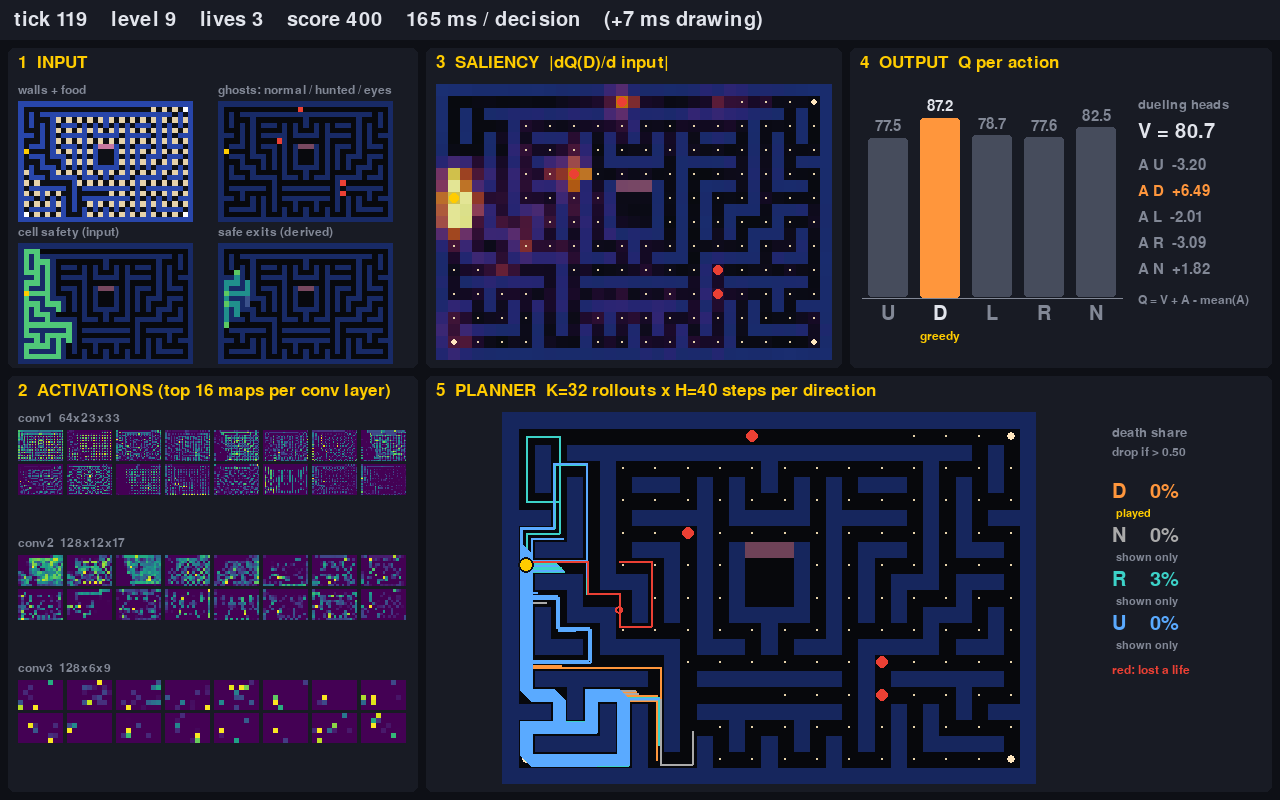
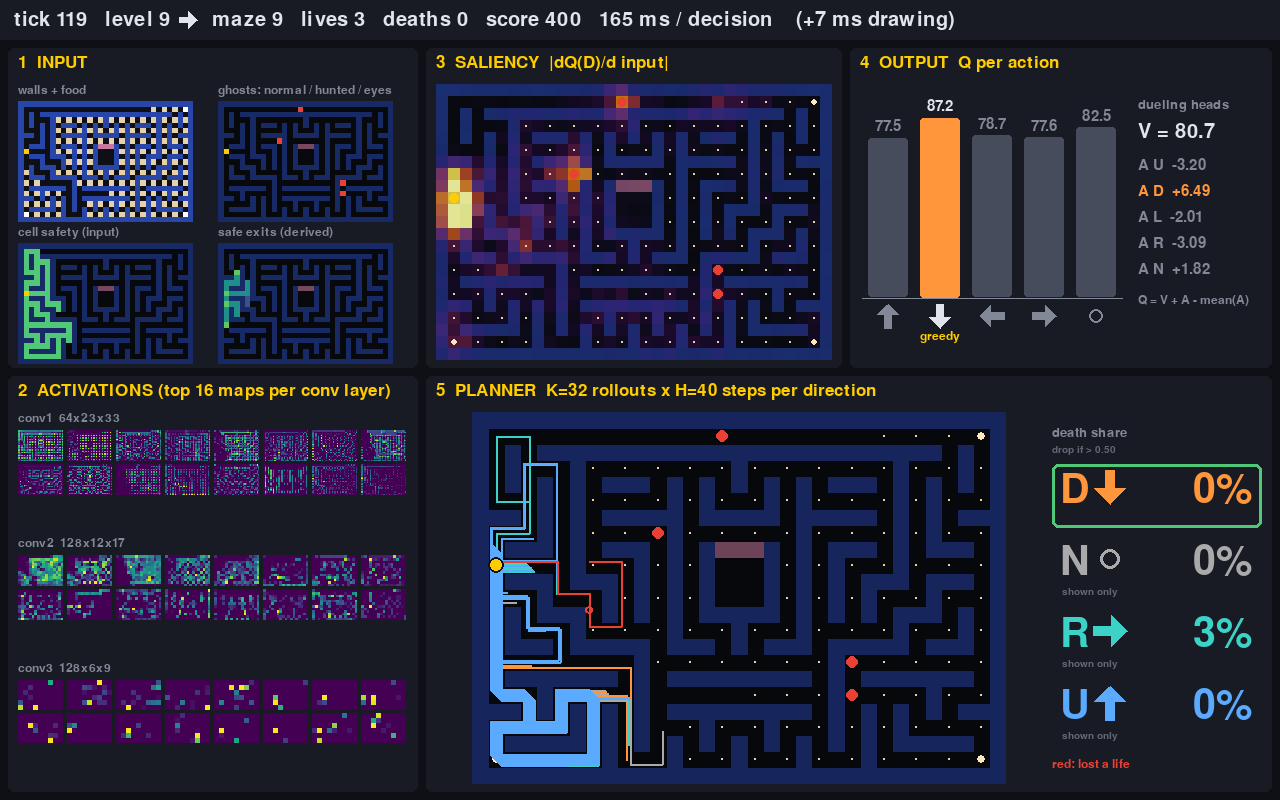
netviz: larger planner legend with arrows, maze and deaths in the status line; plan_honest_k8.yaml; mp4 1920x1080 25 fps; late-tick stats; super tick is 0.125 s

diff --git a/scripts/netviz.py b/scripts/netviz.py
@@ -30,13 +30,15 @@ import numpy as np
 
 ROOT = os.path.dirname(os.path.dirname(os.path.abspath(__file__)))
 sys.path.insert(0, ROOT)
-from env.pacman_env import CH, HEIGHT, WIDTH, _passable_neighbours, safe_exits_field  # noqa: E402
+from env.pacman_env import (CH, HEIGHT, WIDTH, _passable_neighbours, maze_layouts,  # noqa: E402
+                             safe_exits_field)
 
 W, H = 1280, 800
 BG = (14, 16, 22)
 PANEL = (24, 27, 36)
 FG = (225, 228, 235)
 DIM = (130, 136, 150)
+FAINT = (100, 105, 118)   # secondary labels
 ACCENT = (255, 204, 0)
 RED = (235, 64, 52)
 GREEN = (80, 200, 120)
@@ -109,6 +111,8 @@ class Viz:
         self.probe = NetProbe(net, device)
         self.heat, self.vir = lut("inferno"), lut("viridis")
         self.nbrs = {}
+        # wall masks of the 16 mazes: above level 16 the game draws them at random
+        self.maze_walls = np.array([[[c == "#" for c in row] for row in m] for m in maze_layouts()])
         self.closed = False
         obs_cfg = obs_cfg or {}
         # the cell-safety plane comes after CHANNELS and the food distance plane
@@ -129,6 +133,26 @@ class Viz:
         r = img.get_rect(**{anchor: pos})
         self.screen.blit(img, r)
         return r
+
+    def maze_of(self, grid):
+        """The maze (1-16) whose walls the observation shows, 0 if none."""
+        hit = np.flatnonzero((self.maze_walls == (grid[CH["walls"]] > 0)).all((1, 2)))
+        return int(hit[0]) + 1 if len(hit) else 0
+
+    def arrow(self, d, center, size, color):
+        """An arrow for direction d (0..3 U/D/L/R) of height size; N (4) is a
+        ring: keep going."""
+        cx, cy = center
+        if d == 4:
+            self.pg.draw.circle(self.screen, color, (cx, cy), size * 0.3, max(2, round(size / 10)))
+            return
+        h, sw = size / 2, size * 0.14
+        # pointing up, then rotated: (along, across) -> screen
+        pts = [(h, 0), (0.1 * h, -0.5 * size * 0.9), (0.1 * h, -sw), (-h, -sw), (-h, sw),
+               (0.1 * h, sw), (0.1 * h, 0.5 * size * 0.9)]
+        ux, uy = ((0, -1), (0, 1), (-1, 0), (1, 0))[d]
+        self.pg.draw.polygon(self.screen, color,
+                             [(cx + a * ux - b * uy, cy + a * uy + b * ux) for a, b in pts])
 
     def panel(self, rect, title):
         pg = self.pg
@@ -260,7 +284,7 @@ class Viz:
                               border_radius=3)
             self.text(f"{q[i]:.1f}", (x + bw / 2, min(yv, zero) - 4), 22,
                       FG if i == played else DIM, "midbottom")
-            self.text(DIR_NAMES[i], (x + bw / 2, bot + 6), 30, FG if i == played else DIM, "midtop")
+            self.arrow(i, (x + bw / 2, bot + 18), 24, FG if i == played else DIM)
             if i == greedy:
                 self.text("greedy", (x + bw / 2, bot + 32), 18, ACCENT, "midtop")
         self.pg.draw.line(self.screen, DIM, (bx - 6, zero), (bx + 5 * (bw + gap) - gap + 6, zero), 1)
@@ -280,7 +304,7 @@ class Viz:
             return
         K, Hh = tr["cells"].shape[1], tr["cells"].shape[2]
         self.panel(rect, f"5  PLANNER  K={K} rollouts x H={Hh} steps per direction")
-        lw = 150
+        lw = 210
         cs, ox, oy = self.draw_maze(grid, (x0 + 10, y0 + 36, w - lw - 30, h - 44), 0.55)
         pg = self.pg
         pac = np.flatnonzero(grid[CH["pacman"]].reshape(-1))
@@ -314,21 +338,26 @@ class Viz:
         # legend: direction, death share, dropped
         lx, ly = x0 + w - lw - 10, y0 + 50
         self.text("death share", (lx, ly), 20, DIM)
-        self.text(f"drop if > {tr['threshold']:.2f}", (lx, ly + 20), 18, DIM)
+        self.text(f"drop if > {tr['threshold']:.2f}", (lx, ly + 19), 15, FAINT)
+        row = 72
         for r in range(4):
             a = int(tr["act"][r])
             name = DIR_NAMES[a] if a < 4 else "N"
             f = tr["frac"][r]
             dropped = f > tr["threshold"]
-            yy = ly + 56 + r * 44
-            col = DIR_COLORS[a]
-            rr = self.text(f"{name}  {f:4.0%}", (lx, yy), 30, col if not dropped else DIM)
+            yy = ly + 44 + r * row
+            col = RED if dropped else DIR_COLORS[a]
+            rn = self.text(name, (lx + 8, yy), 60, col)
+            self.arrow(a, (rn.right + 20, rn.centery - 3), 34, col)
+            rr = self.text(f"{f:4.0%}", (lx + lw - 10, yy), 60, col, "topright")
             if dropped:
-                pg.draw.line(self.screen, RED, (rr.left - 2, rr.centery), (rr.right + 2, rr.centery), 3)
-            tag = "played" if a == played else ("" if tr["needed"][r] else "shown only")
-            if tag:
-                self.text(tag, (lx + 4, yy + 26), 16, ACCENT if a == played else DIM)
-        self.text("red: lost a life", (lx, ly + 56 + 4 * 44 + 6), 18, RED)
+                pg.draw.line(self.screen, RED, (rn.left - 4, rr.centery - 3),
+                             (rr.right + 4, rr.centery - 3), 4)
+            if a == played:
+                pg.draw.rect(self.screen, GREEN, (lx, yy - 6, lw, row - 8), 3, border_radius=6)
+            elif not tr["needed"][r]:
+                self.text("shown only", (lx + 10, yy + 45), 15, FAINT)
+        self.text("red: lost a life", (lx, ly + 44 + 4 * row), 18, RED)
 
     def _line(self, pts, col, cs, ox, oy):
         if len(pts) >= 2:
@@ -337,7 +366,13 @@ class Viz:
 
     def draw_status(self, s):
         self.pg.draw.rect(self.screen, PANEL, (0, 0, W, 40))
-        self.text(s, (14, 20), 30, FG, "midleft")
+        # the default font has no arrow glyphs: draw them
+        x = 14
+        for i, part in enumerate(s.split("\u2192")):
+            if i:
+                self.arrow(3, (x + 12, 20), 18, FG)
+                x += 30
+            x = self.text(part, (x, 20), 30, FG, "midleft").right
 
     # --- frame ------------------------------------------------------------------
 
@@ -369,9 +404,9 @@ class Viz:
         self.pg.image.save(self.screen, path)
 
 
-def status_line(tick, level, lives, score, t_decision, t_viz=None):
-    s = f"tick {tick}    level {level}    lives {lives}    score {score}    " \
-        f"{t_decision * 1000:.0f} ms / decision"
+def status_line(tick, level, maze, lives, deaths, score, t_decision, t_viz=None):
+    s = f"tick {tick}   level {level} \u2192 maze {maze}   lives {lives}   deaths {deaths}   " \
+        f"score {score}   {t_decision * 1000:.0f} ms / decision"
     if t_viz is not None:
         s += f"    (+{t_viz * 1000:.0f} ms drawing)"
     return s
@@ -390,15 +425,18 @@ def main():
     agent = PlannerAgent(args.plan_config, args.device, trace=True)
     agent.reset(args.seed, args.level)
     viz = Viz(agent.net.net, agent.net.device, agent.env_overrides.get("obs"), headless=True)
-    t_dec, t_viz = [], []
+    t_dec, t_viz, deaths = [], [], 0
     for t in range(args.ticks):
         obs = agent.sim.obs(agent.net.cell_safety)
+        lives = agent.prev[0]
         t0 = time.perf_counter()
         a = agent.act(obs)
         t1 = time.perf_counter()
         i = agent.prev
-        viz.update(obs, a, agent.last_trace, status_line(t, i[1], i[0], i[3], t1 - t0,
-                                                         t_viz[-1] if t_viz else None))
+        deaths += int(i[0] < lives)
+        viz.update(obs, a, agent.last_trace,
+                   status_line(t, i[1], viz.maze_of(obs["grid"]), i[0], deaths, i[3], t1 - t0,
+                               t_viz[-1] if t_viz else None))
         t_viz.append(time.perf_counter() - t1)
         t_dec.append(t1 - t0)
         if i[0] == 0:

diff --git a/scripts/play.py b/scripts/play.py
@@ -26,8 +26,12 @@ game raises itself when obscured).
 the game shows the network's input planes, conv activations, saliency, Q /
 V / A and the planner's rollouts, redrawn every tick for the state the
 decision was made on. With --record both windows go side by side into the
-file; a .mp4 is written by ffmpeg at 20 fps (frames repeated to keep the
-tick durations), anything else is a GIF.
+file; a .mp4 is written by ffmpeg as 1920x1080 at 25 fps without sound
+(the two windows centred, scaled down only if they do not fit; frames
+repeated to keep the tick durations), anything else is a GIF. At the end
+it prints the share of decisions that took longer than the game's tick
+(0.25 s, 0.125 s while pacman is super): the game waits for the action, so
+a late decision stretches that tick.
 """
 
 import argparse
@@ -96,14 +100,21 @@ def screen_size(display):
 
 
 class Mp4Writer:
-    """RGB frames with their durations -> H.264 mp4 at a fixed rate (ffmpeg)."""
+    """RGB frames with their durations -> H.264 mp4 at a fixed rate and frame
+    size (ffmpeg), no audio track."""
 
-    def __init__(self, path, size, fps=20):
+    def __init__(self, path, size, fps=25, out=(1920, 1080)):
         self.fps, self.size, self.n, self.t, self.shown = fps, size, 0, 0.0, 0
+        # centred on the background colour, scaled down only if larger than out
+        s = min(1.0, out[0] / size[0], out[1] / size[1])
+        w, h = 2 * round(size[0] * s / 2), 2 * round(size[1] * s / 2)
+        vf = (f"scale={w}:{h}:flags=lanczos," if s < 1 else "") + \
+            f"pad={out[0]}:{out[1]}:({out[0]}-iw)/2:({out[1]}-ih)/2:color=0x0e1016"
         self.proc = subprocess.Popen(
             ["ffmpeg", "-loglevel", "error", "-y", "-f", "rawvideo", "-pix_fmt", "rgb24",
-             "-s", f"{size[0]}x{size[1]}", "-r", str(fps), "-i", "-", "-c:v", "libx264",
-             "-pix_fmt", "yuv420p", "-crf", "20", path], stdin=subprocess.PIPE)
+             "-s", f"{size[0]}x{size[1]}", "-r", str(fps), "-i", "-", "-vf", vf, "-an",
+             "-c:v", "libx264", "-pix_fmt", "yuv420p", "-crf", "20", path],
+            stdin=subprocess.PIPE)
 
     def add(self, img, duration):
         """img (h, w, 3) uint8 shown for duration seconds."""
@@ -256,6 +267,7 @@ def play_viz(args, agent, env):
         (agent.net, agent.device)
     mp4 = bool(args.record) and args.record.lower().endswith(".mp4")
     writer, frames, durations, t_dec, t_viz = None, [], [], [], []
+    t_agent, ticks, supers, deaths = [], [], [], 0   # per tick: our time, wall time, super
     os.environ["DISPLAY"] = args.display
     try:
         obs, info = env.reset(seed=args.seed, options=(
@@ -271,14 +283,15 @@ def play_viz(args, agent, env):
         vx = min(x + w + 8, max(0, sw - VIZ_W))
         viz = Viz(net, device, agent.env_overrides.get("obs"), pos=(vx, max(0, min(y, sh - VIZ_H))))
         total, steps, t_prev, prev_img = 0.0, 0, time.perf_counter(), None
+        t_obs = time.perf_counter()
         while True:
             game_img = grab(args.display, window) if args.record else None
             t0 = time.perf_counter()
             a = agent.act(obs)
             t1 = time.perf_counter()
             viz.update(obs, a, getattr(agent, "last_trace", None),
-                       status_line(steps, info["level"], info["lives"], info["score"], t1 - t0,
-                                   t_viz[-1] if t_viz else None))
+                       status_line(steps, info["level"], viz.maze_of(obs["grid"]), info["lives"],
+                                   deaths, info["score"], t1 - t0, t_viz[-1] if t_viz else None))
             t_dec.append(t1 - t0)
             t_viz.append(time.perf_counter() - t1)
             if args.record:
@@ -299,7 +312,15 @@ def play_viz(args, agent, env):
                                           round(pil.height * args.scale)), Image.NEAREST)
                     frames.append(pil.quantize(colors=128, method=Image.Quantize.FASTOCTREE))
                 prev_img, t_prev = img, now
+            lives = info["lives"]
+            t_agent.append(time.perf_counter() - t_obs)
             obs, r, term, trunc, info = env.step(a)
+            now = time.perf_counter()
+            ticks.append(now - t_obs)
+            t_obs = now
+            # the game slept for 0.25 / (1 + super) before sending this state
+            supers.append(bool(obs["vec"][1] > 0))
+            deaths += int(info["lives"] < lives)
             total += r
             steps += 1
             if term or trunc or viz.closed or (args.max_steps and steps >= args.max_steps):
@@ -310,6 +331,15 @@ def play_viz(args, agent, env):
         print(f"decision {np.mean(t_dec) * 1000:.0f} ms + viz {np.mean(t_viz) * 1000:.0f} ms per "
               f"tick (p95 of the sum {np.percentile(tot, 95) * 1000:.0f} ms): "
               f"{1 / np.mean(tot):.1f} decisions/s possible")
+        t_agent, ticks, supers = np.array(t_agent), np.array(ticks), np.array(supers)
+        for name, m, tick in (("normal", ~supers, 0.25), ("super", supers, 0.125)):
+            if m.any():
+                print(f"{name} ticks ({tick * 1000:.0f} ms): {m.sum()}, decision + viz"
+                      f"{' + grab' if args.record else ''} longer than the tick: "
+                      f"{np.mean(t_agent[m] > tick):.1%} (max {t_agent[m].max() * 1000:.0f} ms), "
+                      f"ticks stretched by > 10 ms: {np.mean(ticks[m] > tick + 0.01):.1%}, "
+                      f"wall time median {np.median(ticks[m]) * 1000:.0f} ms, "
+                      f"max {ticks[m].max() * 1000:.0f} ms")
     finally:
         env.close()
     if writer is not None:

diff --git a/scripts/plan_bench.py b/scripts/plan_bench.py
@@ -6,8 +6,9 @@ case), per config: mean / p95 / max seconds per decision and decisions/s.
 
 Each config plays the same games (--levels, seeds from --seed) in the sim
 for --decisions decisions each; the GPU should be otherwise idle. The game
-in real time gives a decision 0.25 s (0.0625 s while pacman is super: half
-the tick, two state lines per tick).
+in real time gives a decision 0.25 s (0.125 s while pacman is super: every
+state line follows a timing(super) call that sleeps up to 0.25 / 2 s,
+game/timing.cc; measured with play.py --viz, see docs/results.md).
 """
 
 import argparse

diff --git a/docs/results.md b/docs/results.md
@@ -1415,8 +1415,9 @@ clear. H60/K32 lost two workers to CUDA OOM at the start (213 games kept);
 H80/K16 was stopped at 06:30 (303 games, the unfinished ones are its
 longest). "Common" = the 207 (maze, seed) games played by all four.
 Latency: scripts/plan_bench.py, one game, GPU otherwise idle, mazes 2, 9,
-14, 15 x 400 decisions; a decision has 0.25 s in real time (0.0625 s while
-pacman is super).
+14, 15 x 400 decisions; a decision has 0.25 s in real time (0.125 s while
+pacman is super; "0.0625 s" before 2026-10-17 was a misreading of
+game/timing.cc, corrected below).
 
 | config | games | per-maze | worst | deaths/game (95% CI) | common: per-maze / worst / deaths | all dropped | decisions/s | p95 / max ms |
 |---|---|---|---|---|---|---|---|---|
@@ -1465,7 +1466,8 @@ ones, H40/K32 - H60/K32 = -0.08 (-0.17..+0.01).
 
 H40/K32 is the new default (configs/plan_honest_lb.yaml): the only config
 without a lost maze, 40% fewer deaths than K8, and p95 53 ms fits the
-0.25 s tick with a margin (the 62.5 ms super-pacman tick only on average).
+0.25 s tick and the 0.125 s super-pacman tick with a margin (without the
+network view).
 The rollout count, not the horizon, decides.
 
 With the network view (scripts/netviz.py --ticks 400, sim only, idle GPU,
@@ -1478,5 +1480,20 @@ much as in the bench:
 | H40/K32 | 157-166 | 7 | 164-173 (188-193) | 5.8-6.1 |
 | H40/K8 | 55-63 | 5 | 60-69 (71-73) | 14.6-16.7 |
 
-H40/K32 with --viz still fits the 0.25 s tick, not the super-pacman one.
+In the game (play.py --viz, Xvfb 1920x1080, level 9, seed 0, 1000 ticks):
+the game waits for the action, so a decision longer than the tick
+stretches that tick. The super tick is 0.125 s (game/timing.cc sleeps up
+to 0.25 / (1 + super) before every state line), measured: median 125 ms.
+
+| config | --record | normal ticks: late / stretched > 10 ms | super ticks: late / stretched > 10 ms | super tick wall median / max |
+|---|---|---|---|---|
+| H40/K32 | no | 0.1% / 0.3% (704) | 98.6% / 98.3% (296) | 166 / 203 ms |
+| H40/K8 (configs/plan_honest_k8.yaml) | no | 0.1% / 0.1% (831) | 0% / 0% (169) | 125 / 126 ms |
+| H40/K8 | mp4 | 0.1% / 0.1% (831) | 3.0% / 0.6% (169) | 125 / 139 ms |
+
+"Late": decision + drawing (+ the xwd grab with --record) took longer than
+the tick (one normal tick in each run). For watching and
+recording use configs/plan_honest_k8.yaml: with K = 32 the view slows the
+game down by a third while pacman is super. --record .mp4 writes 1920x1080
+at 25 fps, no audio (both windows, 1944 px wide, scaled by 0.99).
 Frame: docs/viz_frame.png (level 9, tick 119). Outputs: runs/plan_grid3/.

diff --git a/docs/overnight.md b/docs/overnight.md
@@ -2760,3 +2760,32 @@ with lookahead. No training tonight.
 - Ideas for later: (5) a cheaper trace for --viz (record cells on the GPU
   and copy once per decision; roll out the "shown only" directions with
   fewer rollouts), so the view keeps up with super pacman.
+
+## 2026-10-17 afternoon: network view edits, K = 8 viewing config, mp4 (no training)
+
+- The user's edits after watching --viz on screen: panel 5 shows the
+  direction letters and death shares twice as large with an arrow next to
+  the letter, the played direction in a green frame (no "played" label),
+  dropped ones in red and struck through, "drop if" and "shown only" small
+  and grey; panel 4 labels the Q bars with arrows (N: a ring); the status
+  line has "level N -> maze N" (the maze is matched by its walls, the game
+  picks a random one above level 16) and the deaths of the game. The
+  default pygame font has no arrow glyphs, the arrows are drawn polygons.
+- configs/plan_honest_k8.yaml: the default with K = 8, for watching.
+- Correction: the super-pacman tick is 0.125 s, not 62.5 ms. timing() in
+  game/timing.cc sleeps up to 0.25 / (1 + is_super()) since the previous
+  call, and there is one call before every state line (two per main-loop
+  pass while super). Measured in the game: super ticks median 125 ms. The
+  "62.5 ms" in the sections above is wrong; results.md and plan_bench.py
+  are corrected.
+- play.py --viz now prints per tick kind (normal / super) the share of
+  decisions that took longer than the tick and of ticks stretched by more
+  than 10 ms (the game blocks on the action, a late decision stretches the
+  tick). Xvfb 1920x1080, level 9, 1000 ticks: K = 8 0% of 169 super ticks
+  late (max 90 ms), with --record mp4 3.0% late / 0.6% stretched (max
+  139 ms); K = 32 98.6% late, super ticks median 166 ms instead of 125.
+- --record .mp4: always 1920x1080 at 25 fps (ffmpeg pad, scale down only
+  if larger: the two windows are 1944 px wide, scaled by 0.99), -an. A
+  200-tick test: 926 frames, 37.0 s (= 90 x 0.25 + 110 x 0.125 s of game),
+  ffprobe shows one h264 stream, no audio. *.mp4 is in .gitignore now.
+- docs/viz_frame.png redrawn with the new panels.
